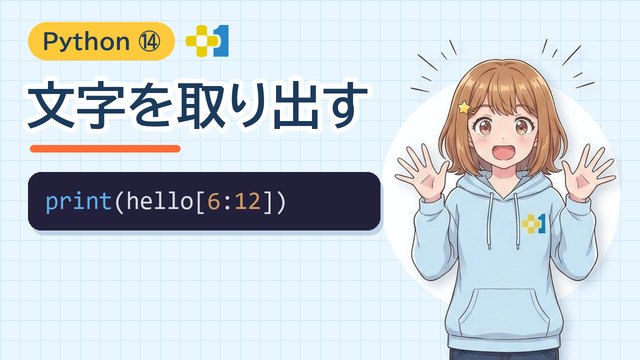
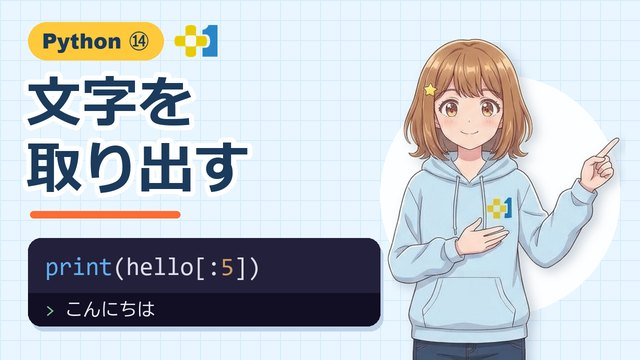
Python ナビ：ステップ14「文字を取り出す」の新しい動画を登録・仕上げ5問を作り直す
- 動画 O3mQNUaDdN4（7分17秒・限定公開）。見出し4つ（番号で取り出す・はじめの5文字・うしろの5文字・つぶやきを短く）と止める秒
- チャレンジ3つ（「い」を取り出す・うしろの2文字・はじめの4文字 + ...）。3つとも書き方の判定（mustMatch）つき
- 仕上げ5問 31-14 を新しい動画に合わせて作り直す（番号で1文字・はじめから・エラーのわけ・うしろから・つぶやきを短く）
- 動画アーカイブのサムネイル step-14.jpg
- 台本・動画は授業づくり担当の点検で合格（台本 8.7点・動画 8.6点）、声は点検係で3回合格

diff --git a/src/data/navi/finishSteps.ts b/src/data/navi/finishSteps.ts
@@ -106,7 +106,7 @@ export const finishStepLessons: Lesson[] = [
     "unitNumber": 31,
     "subNumber": 14,
     "title": "ステップ14の仕上げ",
-    "description": "len で文字数、[ ] で文字の一部を取り出そう",
+    "description": "[ ] で、文字の一部を取り出そう",
     "difficulty": "かんたん"
   },
   {
@@ -2541,60 +2541,60 @@ export const finishStepMissions: Record<string, Mission[]> = {
     {
       "id": 1,
       "type": "quiz",
-      "title": "文字数を数える",
+      "title": "番号で取り出す",
       "description": "このコードを実行すると、何が出る？",
-      "codeToRead": "word = \"プログラミング\"\nprint(len(word))",
+      "codeToRead": "hello = \"こんにちは\"\nprint(hello[1])",
       "choices": [
-        "6",
-        "7",
-        "8"
+        "こ",
+        "ん",
+        "に"
       ],
       "correctAnswer": 1,
-      "expectedOutput": "7",
-      "hint": "1文字ずつ数えてみよう。",
-      "explanation": "プ・ロ・グ・ラ・ミ・ン・グ で 7文字だよ。",
+      "expectedOutput": "ん",
+      "hint": "番号は 0 から数えるよ。",
+      "explanation": "「こ」が 0番、「ん」が 1番。だから「ん」が出るよ。",
       "availableBlocks": []
     },
     {
       "id": 2,
       "type": "quiz",
-      "title": "一部を取り出す",
+      "title": "はじめから取り出す",
       "description": "このコードを実行すると、何が出る？",
-      "codeToRead": "word = \"いちかです\"\nprint(word[0:3])",
+      "codeToRead": "word = \"プログラミング\"\nprint(word[:3])",
       "choices": [
-        "いちか",
-        "いちかで",
-        "ちかで"
+        "プロ",
+        "プログ",
+        "ミング"
       ],
-      "correctAnswer": 0,
-      "expectedOutput": "いちか",
-      "hint": "番号は 0 から。[0:3] は 3番の手前まで。",
-      "explanation": "0番・1番・2番の3文字「いちか」が出るよ。",
+      "correctAnswer": 1,
+      "expectedOutput": "プログ",
+      "hint": "[:3] は、はじめの3文字だよ。",
+      "explanation": "プ・ロ・グ の3文字が出るよ。[-3:] なら、うしろの3文字「ミング」だね。",
       "availableBlocks": []
     },
     {
       "id": 3,
       "type": "quiz",
-      "title": "まちがいを直そう",
-      "description": "後ろの3文字「います」を出したいのに「おはよ」が出た。どう直す？",
-      "codeToRead": "word = \"おはようございます\"\nprint(word[:3])",
+      "title": "エラーのわけ",
+      "description": "実行したら「IndexError: string index out of range」と出た。なぜ？",
+      "codeToRead": "hello = \"ねこ\"\nprint(hello[2])",
       "choices": [
-        "[:3] を [3:] にする",
-        "len( ) でかこむ",
-        "[:3] を [-3:] にする"
+        "「ねこ」は2文字なので、番号は1まで。2番はない",
+        "かくかっこを使ったから",
+        "print の書き方がまちがっているから"
       ],
-      "correctAnswer": 2,
-      "expectedOutput": "[:3] を [-3:] にする",
-      "hint": "後ろから数えるときは、マイナスの番号を使ったね。",
-      "explanation": "[:3] は前から3文字「おはよ」。[-3:] にすると後ろから3文字「います」が出るよ。",
+      "correctAnswer": 0,
+      "expectedOutput": "「ねこ」は2文字なので、番号は1まで。2番はない",
+      "hint": "len で数えると何文字？ 番号は 0 から数えるよ。",
+      "explanation": "「ね」が 0番、「こ」が 1番。2番はないので、番号がはみ出してエラーになるよ。",
       "availableBlocks": []
     },
     {
       "id": 4,
-      "title": "文字数を表示",
-      "description": "len( ) を使って、hello の文字数を表示しよう！",
-      "expectedOutput": "12",
-      "correctCode": "print(len(hello))",
+      "title": "うしろから取り出す",
+      "description": "マイナスの番号を使って、word のうしろの3文字を表示しよう！",
+      "expectedOutput": "ゲーム",
+      "correctCode": "print(word[-3:])",
       "availableBlocks": [
         {
           "id": "b0",
@@ -2610,61 +2610,7 @@ export const finishStepMissions: Record<string, Mission[]> = {
         },
         {
           "id": "b2",
-          "text": "len",
-          "type": "function",
-          "color": "bg-yellow-200"
-        },
-        {
-          "id": "b3",
-          "text": "hello",
-          "type": "variable",
-          "color": "bg-sky-200"
-        },
-        {
-          "id": "b4",
-          "text": ")",
-          "type": "bracket",
-          "color": "bg-gray-200"
-        },
-        {
-          "id": "b5",
-          "text": "str",
-          "type": "function",
-          "color": "bg-yellow-200"
-        }
-      ],
-      "prefixCode": "hello = \"こんにちは、私は瞳です。\"",
-      "rules": [
-        {
-          "requires": [
-            "len("
-          ],
-          "message": "文字の数は len( ) で数えるよ！"
-        }
-      ]
-    },
-    {
-      "id": 5,
-      "title": "後ろから取り出す",
-      "description": "マイナスの番号を使って、hello の後ろから6文字を表示しよう！",
-      "expectedOutput": "私は瞳です。",
-      "correctCode": "print(hello[-6:])",
-      "availableBlocks": [
-        {
-          "id": "b0",
-          "text": "print",
-          "type": "function",
-          "color": "bg-yellow-200"
-        },
-        {
-          "id": "b1",
-          "text": "(",
-          "type": "bracket",
-          "color": "bg-gray-200"
-        },
-        {
-          "id": "b2",
-          "text": "hello",
+          "text": "word",
           "type": "variable",
           "color": "bg-sky-200"
         },
@@ -2676,9 +2622,9 @@ export const finishStepMissions: Record<string, Mission[]> = {
         },
         {
           "id": "b4",
-          "text": "-6",
+          "text": "-3",
           "type": "number",
-          "color": "bg-yellow-100"
+          "color": "bg-blue-200"
         },
         {
           "id": "b5",
@@ -2700,18 +2646,108 @@ export const finishStepMissions: Record<string, Mission[]> = {
         },
         {
           "id": "b8",
-          "text": "6",
+          "text": "3",
           "type": "number",
-          "color": "bg-yellow-100"
+          "color": "bg-blue-200"
         }
       ],
-      "prefixCode": "hello = \"こんにちは、私は瞳です。\"",
+      "prefixCode": "word = \"たのしいゲーム\"",
       "rules": [
         {
           "requires": [
-            "-6"
+            "-3"
           ],
-          "message": "後ろから数えるときは、マイナスをつけるよ！"
+          "message": "うしろから数えるときは、マイナスをつけるよ！"
+        }
+      ]
+    },
+    {
+      "id": 5,
+      "title": "つぶやきを短く",
+      "description": "tweet のはじめの4文字に \"...\" をつけて、「きょうは...」と表示しよう！",
+      "expectedOutput": "きょうは...",
+      "correctCode": "print(tweet[:4] + \"...\")",
+      "availableBlocks": [
+        {
+          "id": "b0",
+          "text": "print",
+          "type": "function",
+          "color": "bg-yellow-200"
+        },
+        {
+          "id": "b1",
+          "text": "(",
+          "type": "bracket",
+          "color": "bg-gray-200"
+        },
+        {
+          "id": "b2",
+          "text": "tweet",
+          "type": "variable",
+          "color": "bg-sky-200"
+        },
+        {
+          "id": "b3",
+          "text": "[",
+          "type": "bracket",
+          "color": "bg-gray-200"
+        },
+        {
+          "id": "b4",
+          "text": ":",
+          "type": "colon",
+          "color": "bg-gray-200"
+        },
+        {
+          "id": "b5",
+          "text": "4",
+          "type": "number",
+          "color": "bg-blue-200"
+        },
+        {
+          "id": "b6",
+          "text": "]",
+          "type": "bracket",
+          "color": "bg-gray-200"
+        },
+        {
+          "id": "b7",
+          "text": "+",
+          "type": "operator",
+          "color": "bg-orange-200"
+        },
+        {
+          "id": "b8",
+          "text": "\"...\"",
+          "type": "string",
+          "color": "bg-green-200"
+        },
+        {
+          "id": "b9",
+          "text": ")",
+          "type": "bracket",
+          "color": "bg-gray-200"
+        },
+        {
+          "id": "b10",
+          "text": "-4",
+          "type": "number",
+          "color": "bg-blue-200"
+        }
+      ],
+      "prefixCode": "tweet = \"きょうはプールにいった\"",
+      "rules": [
+        {
+          "requires": [
+            ":4"
+          ],
+          "message": "はじめの4文字は [:4] だよ！"
+        },
+        {
+          "requires": [
+            "+"
+          ],
+          "message": "\"...\" は + でつなごう！"
         }
       ]
     }
@@ -6395,7 +6431,7 @@ export const finishStepTutorials: LessonTutorial[] = [
         "content": "さっきの動画で習ったことを、5問でたしかめます。結果を予想する問題・まちがいを直す問題・ブロックをならべる問題があります。",
         "characterMessage": "わからなくなったら、ヒントを見てね。",
         "codeExample": {
-          "good": "word = \"Python\"\nprint(word[0])  # P"
+          "good": "hello = \"こんにちは、いちかです\"\nprint(hello[:5])   # こんにちは\nprint(hello[-5:])  # いちかです"
         }
       }
     ]
